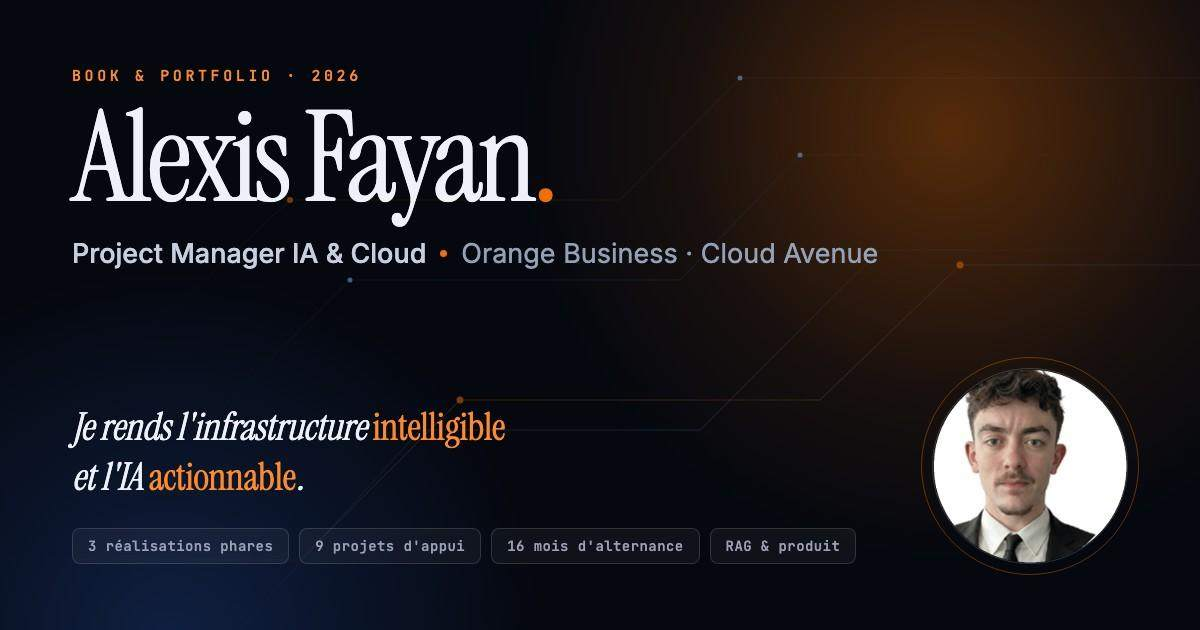
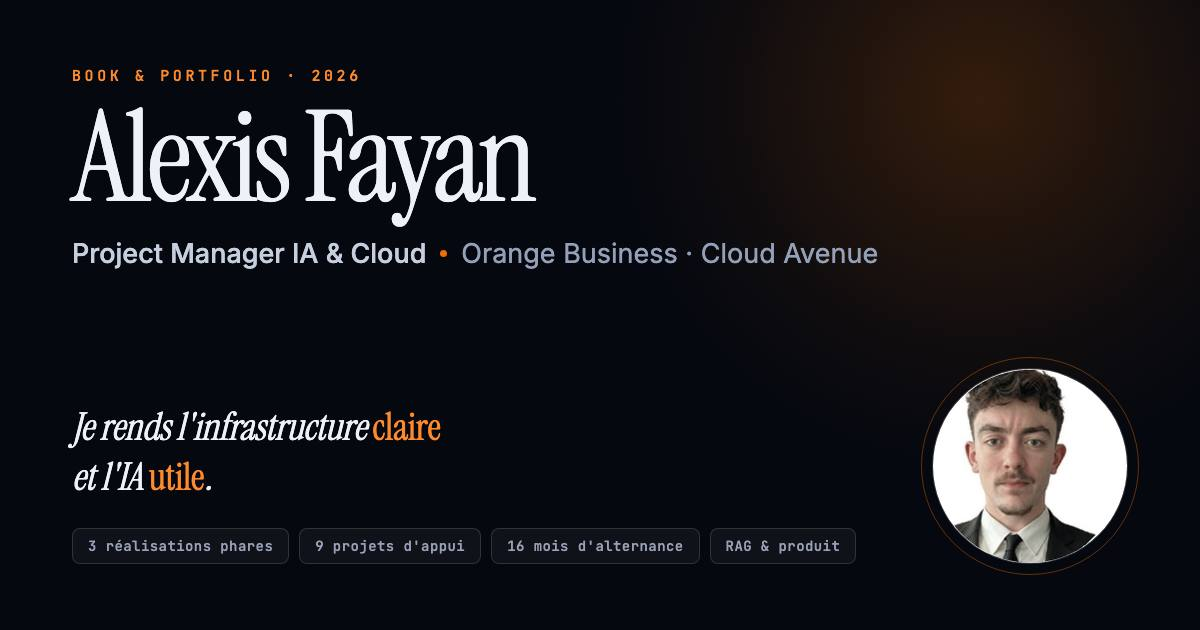
Passe anti-IA : visuels sobres + tagline déjargonnée
Suppression des éléments qui faisaient « site généré par IA » :
- fond animé « circuit imprimé » du hero retiré
- grain sur toute la page retiré
- anneau pointillé rotatif autour du portrait retiré
- point orange décoratif après « Fayan » retiré
- repère « Faites défiler » animé retiré
- monogramme et bouton principal aplatis (couleur pleine, plus de dégradé ni de halo marqué)
- halo du hero réduit à un souffle discret, glow bleu supprimé
- filets de séparation ramenés à une simple ligne (plus de lueur orange centrale)

Tagline déjargonnée : « intelligible / actionnable » devient « claire / utile »
(hero, meta description, og/twitter, titres des deux piliers), image de partage
og.jpg régénérée en conséquence (sans circuit).

Faits, chiffres, dates, noms et citations inchangés. 0 tiret cadratin. HTML équilibré.

diff --git a/index.html b/index.html
@@ -4,7 +4,7 @@
 <meta charset="utf-8" />
 <meta name="viewport" content="width=device-width, initial-scale=1" />
 <title>Alexis Fayan · Project Manager IA &amp; Cloud</title>
-<meta name="description" content="Book d'Alexis Fayan, Project Manager IA &amp; Cloud chez Orange Business (Cloud Avenue). Rendre l'infrastructure intelligible et l'IA actionnable." />
+<meta name="description" content="Book d'Alexis Fayan, Project Manager IA &amp; Cloud chez Orange Business (Cloud Avenue). Rendre l'infrastructure claire et l'IA utile." />
 <meta name="author" content="Alexis Fayan" />
 <meta name="theme-color" content="#070C18" />
 <link rel="canonical" href="https://book-alexis-fayan.vercel.app/" />
@@ -13,14 +13,14 @@
 <meta property="og:locale" content="fr_FR" />
 <meta property="og:site_name" content="Book · Alexis Fayan" />
 <meta property="og:title" content="Alexis Fayan · Project Manager IA &amp; Cloud" />
-<meta property="og:description" content="Je rends l'infrastructure intelligible et l'IA actionnable. Book 2026 : 3 réalisations phares, 9 projets d'appui, 16 mois chez Orange Business, Cloud Avenue." />
+<meta property="og:description" content="Je rends l'infrastructure claire et l'IA utile. Book 2026 : 3 réalisations phares, 9 projets d'appui, 16 mois chez Orange Business, Cloud Avenue." />
 <meta property="og:url" content="https://book-alexis-fayan.vercel.app/" />
 <meta property="og:image" content="https://book-alexis-fayan.vercel.app/assets/og.jpg" />
 <meta property="og:image:width" content="1200" />
 <meta property="og:image:height" content="630" />
 <meta name="twitter:card" content="summary_large_image" />
 <meta name="twitter:title" content="Alexis Fayan · Project Manager IA &amp; Cloud" />
-<meta name="twitter:description" content="Je rends l'infrastructure intelligible et l'IA actionnable. Book 2026." />
+<meta name="twitter:description" content="Je rends l'infrastructure claire et l'IA utile. Book 2026." />
 <meta name="twitter:image" content="https://book-alexis-fayan.vercel.app/assets/og.jpg" />
 
 <link rel="icon" href="/favicon.svg" type="image/svg+xml" />
@@ -72,7 +72,7 @@
   --glow:rgba(241,110,0,.16);
   --shadow:0 24px 60px -24px rgba(0,0,0,.85);
   --hair:linear-gradient(90deg,transparent,rgba(255,255,255,.14) 22%,rgba(241,110,0,.4) 50%,rgba(255,255,255,.14) 78%,transparent);
-  --grain:.035;
+  --grain:0;
   --img-dim:.86;
 }
 
@@ -90,7 +90,7 @@ html[data-theme="light"]{
   --faint:#8B95A6;
   --glow:rgba(241,110,0,.13);
   --shadow:0 20px 50px -26px rgba(20,25,35,.28);
-  --grain:.02;
+  --grain:0;
   --img-dim:1;
 }
 
@@ -139,7 +139,7 @@ html[data-theme="light"] .eyebrow{color:var(--o-deep)}
 .narrow{max-width:820px}
 section{position:relative}
 .sec{padding:clamp(72px,10vw,132px) 0}
-.rule{height:1px;background:var(--hair);opacity:.9}
+.rule{height:1px;background:var(--line)}
 
 .sec-head{display:flex;flex-direction:column;gap:14px;margin-bottom:clamp(36px,5vw,60px)}
 .sec-head .num{display:flex;align-items:center;gap:14px}
@@ -168,8 +168,8 @@ header#nav.stuck{
 .brand{display:flex;align-items:center;gap:11px;font-weight:600;letter-spacing:-.01em;flex-shrink:0}
 .brand .mark{
   width:30px;height:30px;border-radius:8px;flex-shrink:0;
-  background:linear-gradient(145deg,var(--o-lift),var(--o) 55%,var(--o-deep));
-  display:grid;place-items:center;box-shadow:0 4px 16px var(--glow);
+  background:var(--o);
+  display:grid;place-items:center;
 }
 .brand .mark i{
   font-style:normal;font-family:"Inter",sans-serif;font-size:.63rem;font-weight:700;
@@ -230,11 +230,11 @@ header#nav.stuck{
 .btn:hover{transform:translateY(-2px);border-color:var(--o);box-shadow:0 12px 28px -14px var(--glow)}
 .btn svg{width:15px;height:15px;flex-shrink:0}
 .btn-primary{
-  background:linear-gradient(135deg,var(--o-lift),var(--o) 60%,var(--o-deep));
+  background:var(--o);
   color:#fff;border-color:transparent;font-weight:600;
-  box-shadow:0 10px 30px -12px rgba(241,110,0,.6);
+  box-shadow:0 6px 16px -10px rgba(241,110,0,.4);
 }
-.btn-primary:hover{box-shadow:0 18px 40px -14px rgba(241,110,0,.7);border-color:transparent}
+.btn-primary:hover{box-shadow:0 10px 22px -12px rgba(241,110,0,.45);border-color:transparent}
 .btn-ghost{background:transparent}
 
 /* ============ hero ============ */
@@ -242,7 +242,7 @@ header#nav.stuck{
 .hero-bg{position:absolute;inset:0;z-index:0;pointer-events:none;overflow:hidden}
 .hero-bg .glow-a{
   position:absolute;top:-24%;right:-14%;width:min(880px,105vw);aspect-ratio:1;border-radius:50%;
-  background:radial-gradient(circle at 50% 50%,rgba(241,110,0,.30),rgba(241,110,0,.09) 42%,transparent 68%);
+  background:radial-gradient(circle at 50% 50%,rgba(241,110,0,.13),rgba(241,110,0,.03) 45%,transparent 66%);
   filter:blur(14px);
 }
 .hero-bg .glow-b{
@@ -250,7 +250,7 @@ header#nav.stuck{
   background:radial-gradient(circle at 50% 50%,rgba(40,86,180,.26),transparent 64%);
   filter:blur(20px);
 }
-html[data-theme="light"] .hero-bg .glow-a{background:radial-gradient(circle at 50% 50%,rgba(241,110,0,.22),transparent 66%)}
+html[data-theme="light"] .hero-bg .glow-a{background:radial-gradient(circle at 50% 50%,rgba(241,110,0,.10),transparent 66%)}
 html[data-theme="light"] .hero-bg .glow-b{background:radial-gradient(circle at 50% 50%,rgba(40,86,180,.13),transparent 64%)}
 .hero-bg svg{position:absolute;inset:0;width:100%;height:100%;opacity:.55}
 html[data-theme="light"] .hero-bg svg{opacity:.4}
@@ -296,12 +296,6 @@ html[data-theme="light"] .hero .claim b{color:var(--o-deep)}
   content:"";position:absolute;inset:-9px;border-radius:50%;
   border:1px solid rgba(241,110,0,.35);
 }
-.portrait .ring{
-  position:absolute;inset:-20px;border-radius:50%;
-  border:1px dashed rgba(241,110,0,.22);
-  animation:spin 46s linear infinite;
-}
-@keyframes spin{to{transform:rotate(360deg)}}
 .portrait .badge{
   position:absolute;bottom:-6px;left:50%;transform:translateX(-50%);
   background:var(--surface);border:1px solid var(--line-2);border-radius:999px;
@@ -703,42 +697,6 @@ html{scroll-behavior:smooth}
 <section class="hero" id="top">
   <div class="hero-bg" aria-hidden="true">
     <div class="glow-a"></div>
-    <div class="glow-b"></div>
-    <svg viewBox="0 0 1400 700" preserveAspectRatio="xMidYMid slice">
-      <defs>
-        <linearGradient id="ln" x1="0" y1="1" x2="1" y2="0">
-          <stop offset="0%" stop-color="#F16E00" stop-opacity="0"/>
-          <stop offset="45%" stop-color="#F16E00" stop-opacity=".55"/>
-          <stop offset="100%" stop-color="#7FB0FF" stop-opacity=".25"/>
-        </linearGradient>
-        <linearGradient id="ln2" x1="0" y1="1" x2="1" y2="0">
-          <stop offset="0%" stop-color="#5C8CD8" stop-opacity="0"/>
-          <stop offset="60%" stop-color="#7FB0FF" stop-opacity=".38"/>
-          <stop offset="100%" stop-color="#7FB0FF" stop-opacity="0"/>
-        </linearGradient>
-      </defs>
-      <g fill="none" stroke-width="1">
-        <path d="M-40 640 L340 640 L520 460 L900 460 L1050 310 L1460 310" stroke="url(#ln)"/>
-        <path d="M-40 700 L260 700 L470 490 L780 490 L980 290 L1460 290" stroke="url(#ln2)"/>
-        <path d="M-40 520 L200 520 L400 320 L760 320 L900 180 L1460 180" stroke="url(#ln2)" stroke-opacity=".7"/>
-        <path d="M-40 400 L160 400 L330 230 L700 230 L840 90 L1460 90" stroke="url(#ln)" stroke-opacity=".5"/>
-        <path d="M-40 760 L420 760 L610 570 L1010 570 L1180 400 L1460 400" stroke="url(#ln2)" stroke-opacity=".5"/>
-      </g>
-      <g fill="#F16E00">
-        <circle cx="520" cy="460" r="3.5"/><circle cx="1050" cy="310" r="3.5"/>
-        <circle cx="400" cy="320" r="2.5" fill="#7FB0FF"/><circle cx="900" cy="180" r="2.5" fill="#7FB0FF"/>
-        <circle cx="610" cy="570" r="2.5" fill="#7FB0FF"/><circle cx="330" cy="230" r="3"/>
-        <circle cx="840" cy="90" r="2.5" fill="#7FB0FF"/><circle cx="1180" cy="400" r="3"/>
-      </g>
-      <g stroke="#F16E00" stroke-opacity=".9" stroke-width="1.6" fill="none" stroke-dasharray="18 340" stroke-linecap="round">
-        <path d="M-40 640 L340 640 L520 460 L900 460 L1050 310 L1460 310">
-          <animate attributeName="stroke-dashoffset" from="358" to="0" dur="9s" repeatCount="indefinite"/>
-        </path>
-        <path d="M-40 520 L200 520 L400 320 L760 320 L900 180 L1460 180" stroke="#7FB0FF">
-          <animate attributeName="stroke-dashoffset" from="358" to="0" dur="13s" repeatCount="indefinite"/>
-        </path>
-      </g>
-    </svg>
     <div class="vign"></div>
   </div>
 
@@ -746,13 +704,13 @@ html{scroll-behavior:smooth}
     <div class="hero-in">
       <div>
         <p class="eyebrow">Book &amp; portfolio · 2026</p>
-        <h1>Alexis<br>Fayan<span class="dot">.</span></h1>
+        <h1>Alexis<br>Fayan</h1>
         <p class="role">
           <span>Project Manager IA &amp; Cloud</span>
           <span class="sep" aria-hidden="true"></span>
           <span style="color:var(--muted);font-weight:400">Orange Business · Cloud Avenue</span>
         </p>
-        <p class="claim">Je rends l'infrastructure <b>intelligible</b> et l'IA <b>actionnable</b>.</p>
+        <p class="claim">Je rends l'infrastructure <b>claire</b> et l'IA <b>utile</b>.</p>
         <p class="lede">
           Seize mois chez Orange Business, dans la division cloud souverain, à transformer une offre
           d'infrastructure complexe (le <strong>Bare Metal Server</strong>) en produit compris en interne
@@ -778,7 +736,6 @@ html{scroll-behavior:smooth}
       </div>
 
       <figure class="portrait">
-        <span class="ring" aria-hidden="true"></span>
         <img src="/assets/alexis-fayan.jpg" width="320" height="320" alt="Portrait d'Alexis Fayan" />
         <figcaption class="badge">Dispo. sept. 2026</figcaption>
       </figure>
@@ -791,7 +748,6 @@ html{scroll-behavior:smooth}
       <div><dt>Fin de contrat</dt><dd>25 septembre 2026</dd></div>
     </dl>
 
-    <span class="scroll-cue" aria-hidden="true"><i></i> Faites défiler</span>
   </div>
 </section>
 
@@ -816,13 +772,13 @@ html{scroll-behavior:smooth}
     <div class="pillars">
       <article class="pillar rv">
         <span class="ic" aria-hidden="true"><svg viewBox="0 0 24 24" fill="none" stroke="currentColor" stroke-width="1.7"><path d="M4 6h16M4 12h11M4 18h7"/><circle cx="19" cy="17.5" r="2.5"/></svg></span>
-        <h3>Rendre l'infrastructure intelligible</h3>
+        <h3>Rendre l'infrastructure claire</h3>
         <p>Je pars de parcours non documentés que je cartographie moi-même, j'écris la documentation d'offre
         bilingue, je construis le support de formation, et j'aide les commerciaux à monter en compétence.</p>
       </article>
       <article class="pillar rv">
         <span class="ic" aria-hidden="true"><svg viewBox="0 0 24 24" fill="none" stroke="currentColor" stroke-width="1.7"><path d="M12 3v3M12 18v3M3 12h3M18 12h3"/><rect x="7.5" y="7.5" width="9" height="9" rx="2.5"/><path d="M10.5 10.5h3v3h-3z"/></svg></span>
-        <h3>Rendre l'IA actionnable</h3>
+        <h3>Rendre l'IA utile</h3>
         <p>J'écris le cahier des charges exécutable, je dirige une IA de développement sur cette base, puis je
         recette, je versionne et je sécurise ce qui sort. Et je sais arrêter ce qui fait doublon.</p>
       </article>
